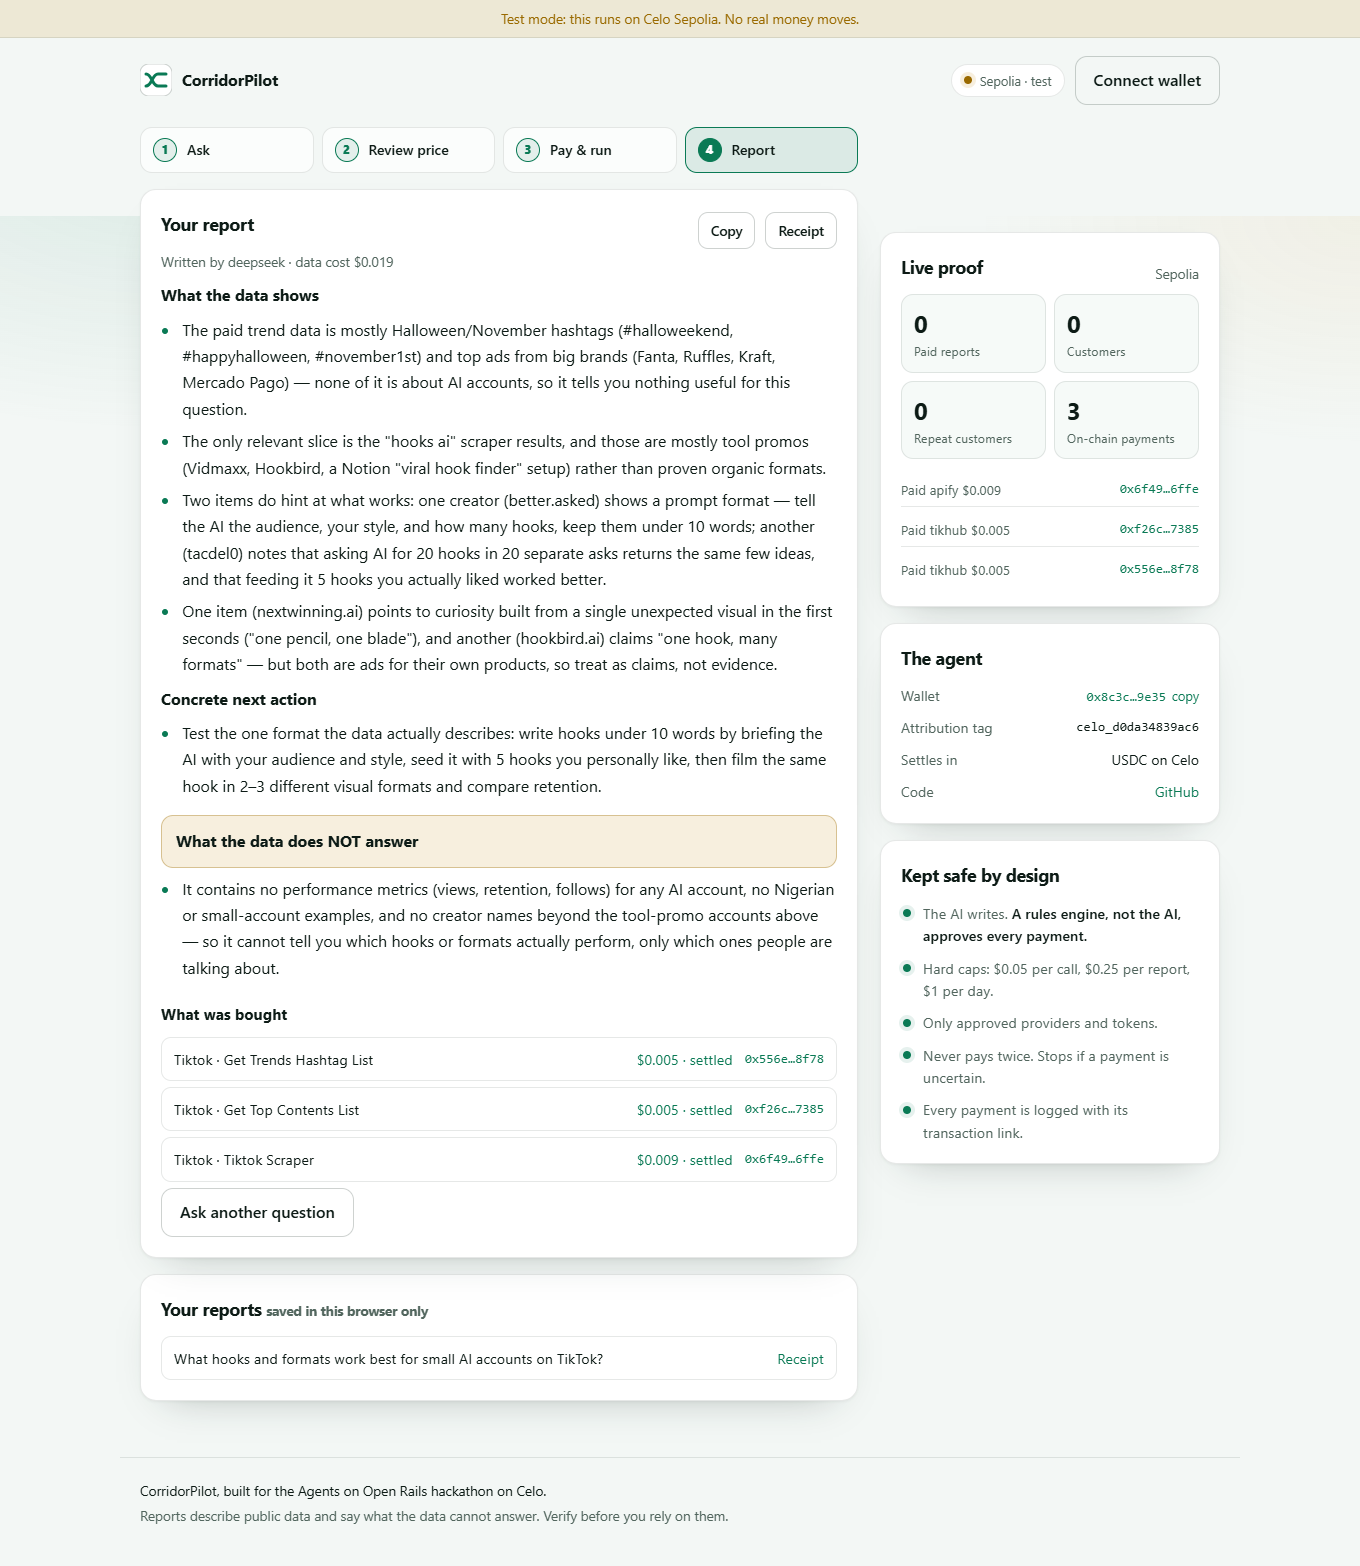
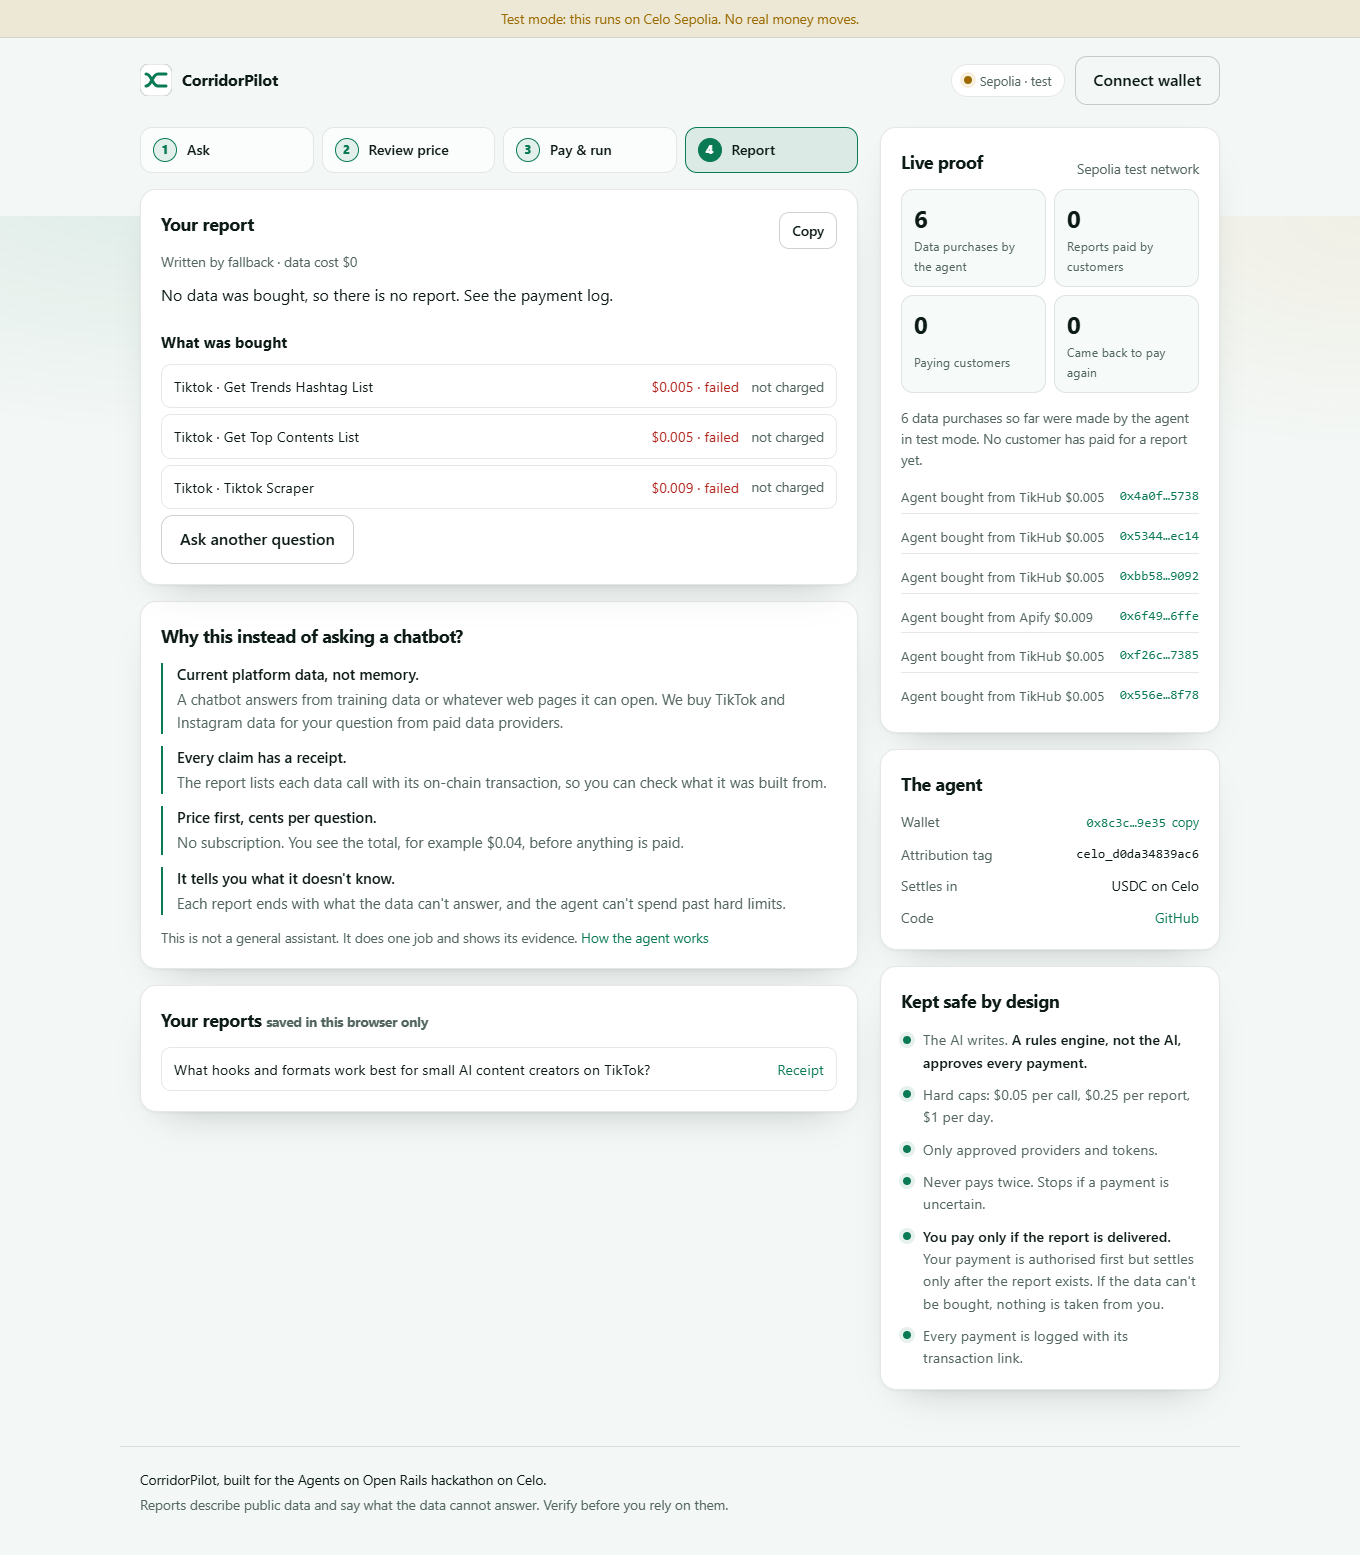
Plain-language explanation when no report can be made (sandbox daily allowance, unfunded wallet, safety block); +4 tests

diff --git a/src/agent/orchestrator.ts b/src/agent/orchestrator.ts
@@ -157,7 +157,7 @@ export class Orchestrator {
     const allResults = [...(plan.prior ?? []), ...results];
     const report = results.length
       ? await writeReport(plan.question, allResults)
-      : { text: "No data was bought, so there is no report. See the payment log.", by: "fallback" as const };
+      : { text: noReportMessage(log), by: "fallback" as const };
     ledger.record("report_written", { by: report.by, steps: results.length }, plan.id);
     plan.stage = "done";
     let followUp: { id: string; totalUsd: string; customerUsd: string; steps: Array<{ provider: string; why: string; usd: string }> } | undefined;
@@ -184,4 +184,19 @@ export function policyFromEnv(token: string): PolicyConfig {
     allowedProviders: new Set(["tikhub", "apify", "mrscraper"]),
     allowedTokens: new Set([token]),
   };
+}
+
+/** Explain, in plain words, why no report could be made. Failed calls were never charged. */
+export function noReportMessage(log: Array<{ status: string; note?: string }>): string {
+  const notes = log.map((l) => l.note ?? "").join(" ");
+  if (/sandbox_payer_budget_exhausted/.test(notes)) {
+    return "The test-network demo has used its daily data allowance, so no data could be bought. It resets at midnight UTC. Nothing was charged. Live (mainnet) runs are not limited this way.";
+  }
+  if (/insufficient|not enough to cover/i.test(notes)) {
+    return "The agent's wallet does not have enough funds to buy this data right now. Nothing was charged. Please try again later.";
+  }
+  if (log.some((l) => l.status === "blocked")) {
+    return "The safety rules blocked the purchase (a spending limit or an unapproved source). Nothing was charged.";
+  }
+  return "No data could be bought for this question, so there is no report. Nothing was charged. Please try again or rephrase.";
 }

diff --git a/test/paydirect.test.ts b/test/paydirect.test.ts
@@ -18,3 +18,23 @@ describe("directFailureMayHavePaid (an uncertain payment freezes all spending, s
     expect(directFailureMayHavePaid({ paymentSent: true, status: 200 })).toBe(true);
   });
 });
+
+import { noReportMessage } from "../src/agent/orchestrator.js";
+
+describe("noReportMessage", () => {
+  it("explains the sandbox daily allowance and says nothing was charged", () => {
+    const m = noReportMessage([{ status: "failed", note: "sandbox_payer_budget_exhausted: not charged=true" }]);
+    expect(m).toMatch(/daily data allowance/);
+    expect(m).toMatch(/Nothing was charged/);
+  });
+  it("explains an unfunded wallet", () => {
+    expect(noReportMessage([{ status: "failed", note: "verify_payment_failed: Onchain balance is not enough to cover the payment" }])).toMatch(/enough funds/);
+  });
+  it("explains a safety-rule block", () => {
+    expect(noReportMessage([{ status: "blocked" }])).toMatch(/safety rules/);
+  });
+  it("has a plain default", () => {
+    expect(noReportMessage([{ status: "failed", note: "provider_error" }])).toMatch(/No data could be bought/);
+    expect(noReportMessage([])).toMatch(/Nothing was charged/);
+  });
+});
